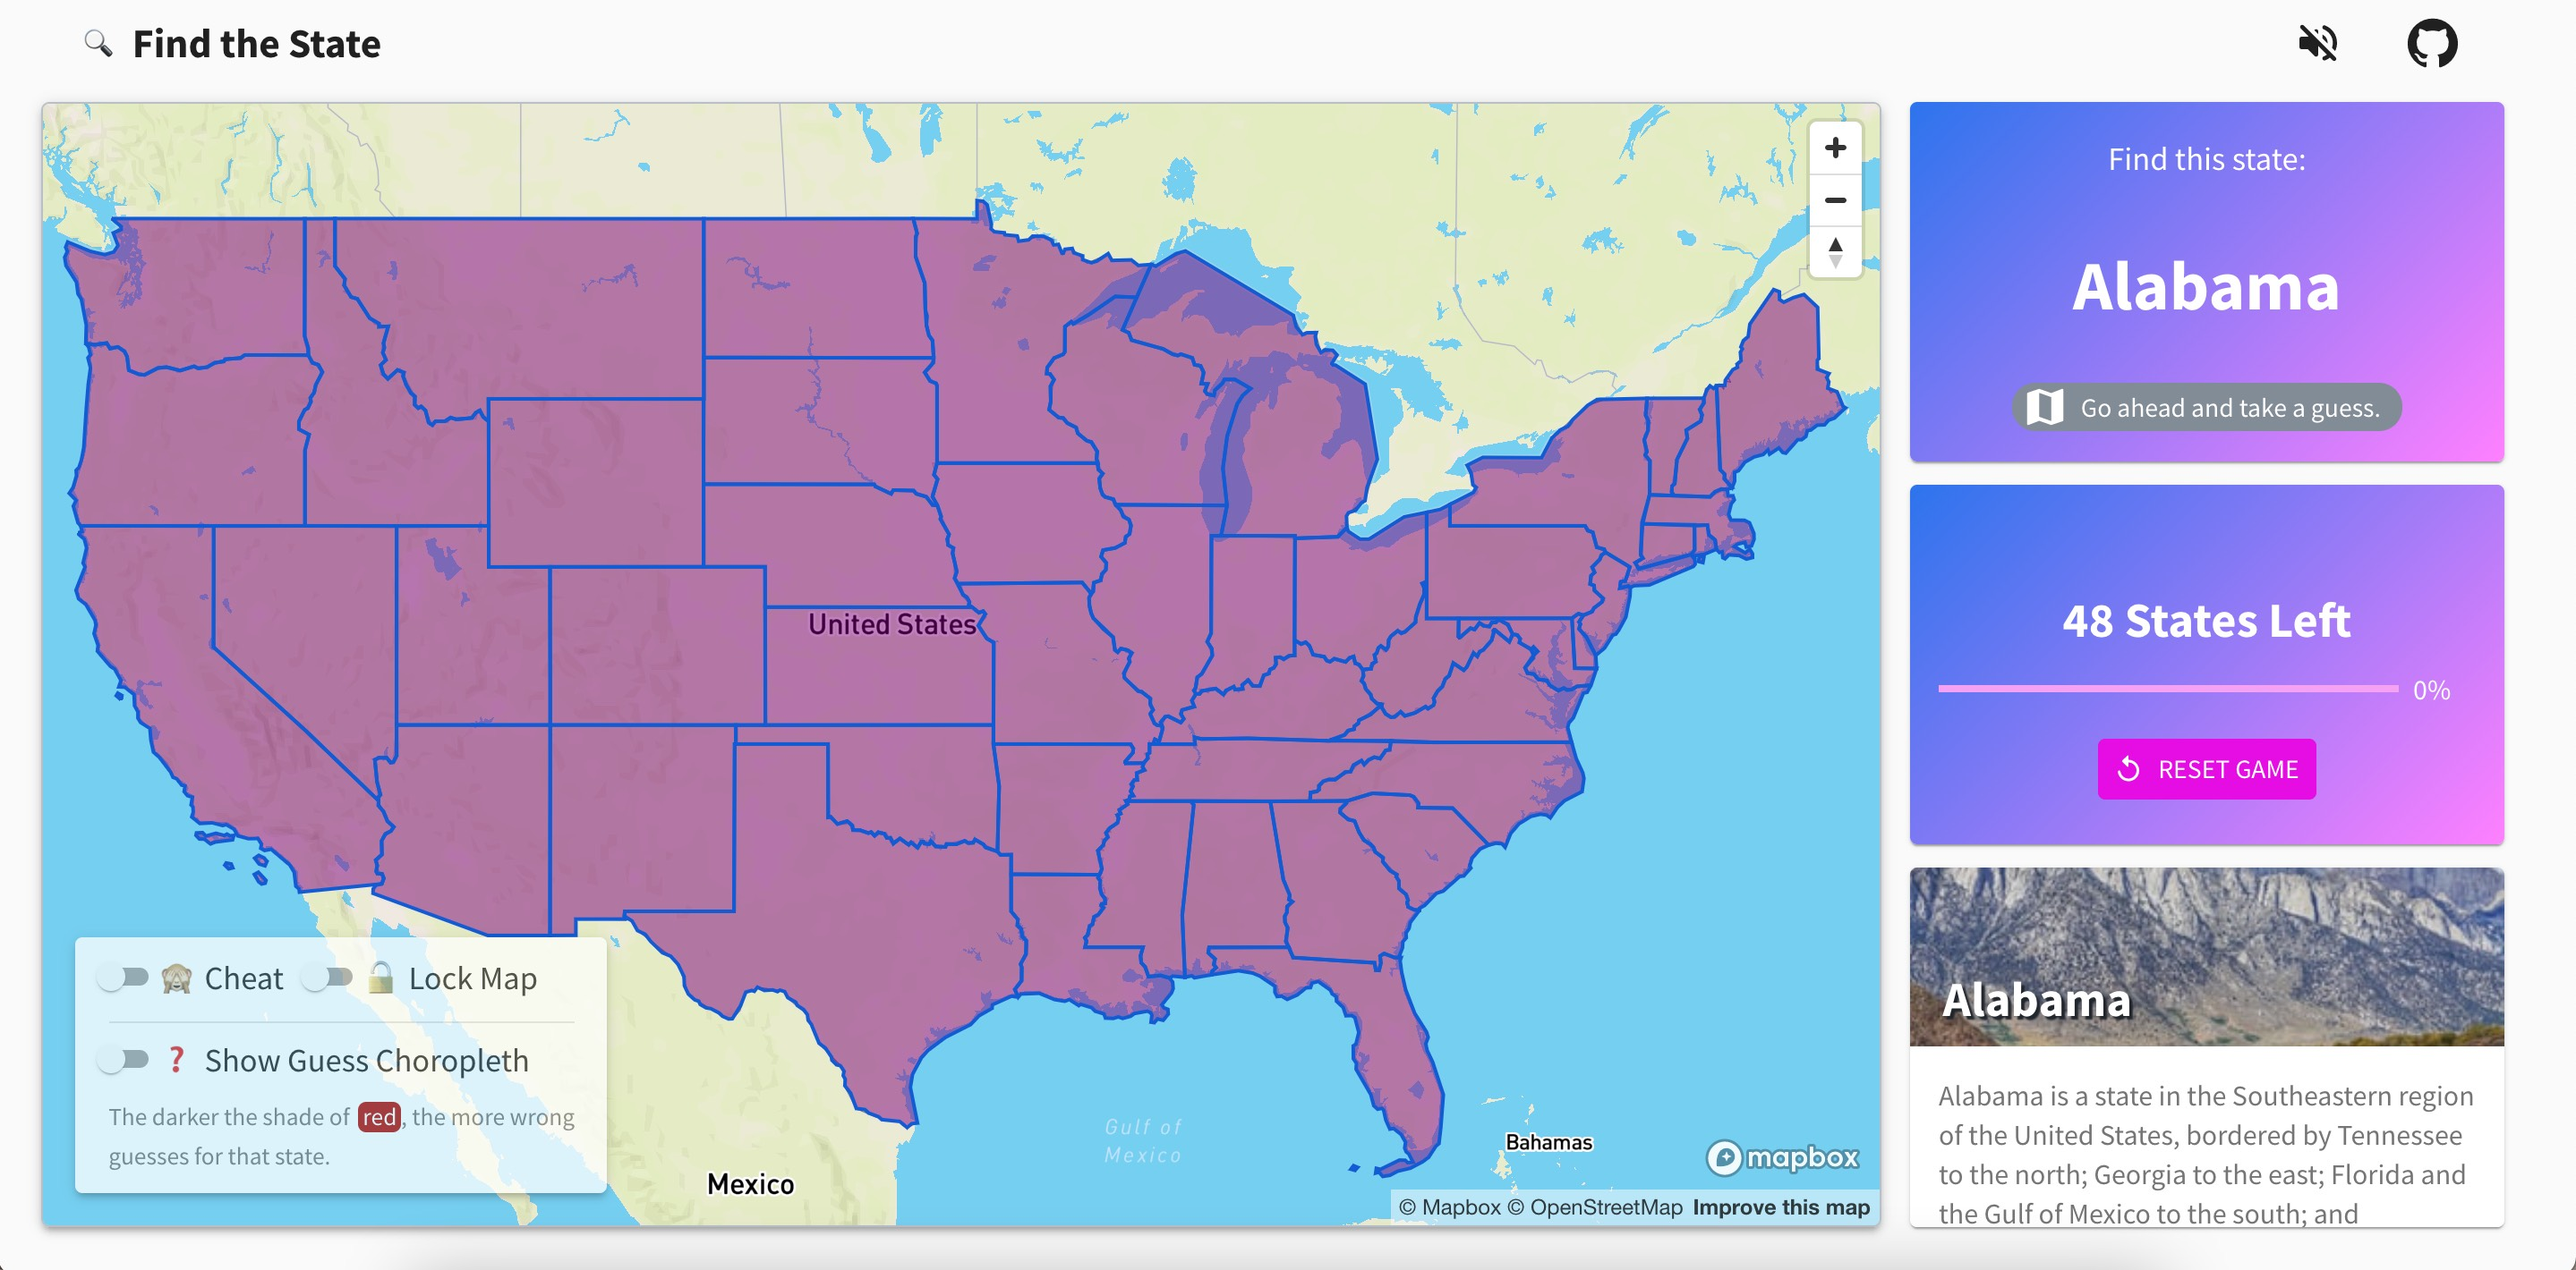
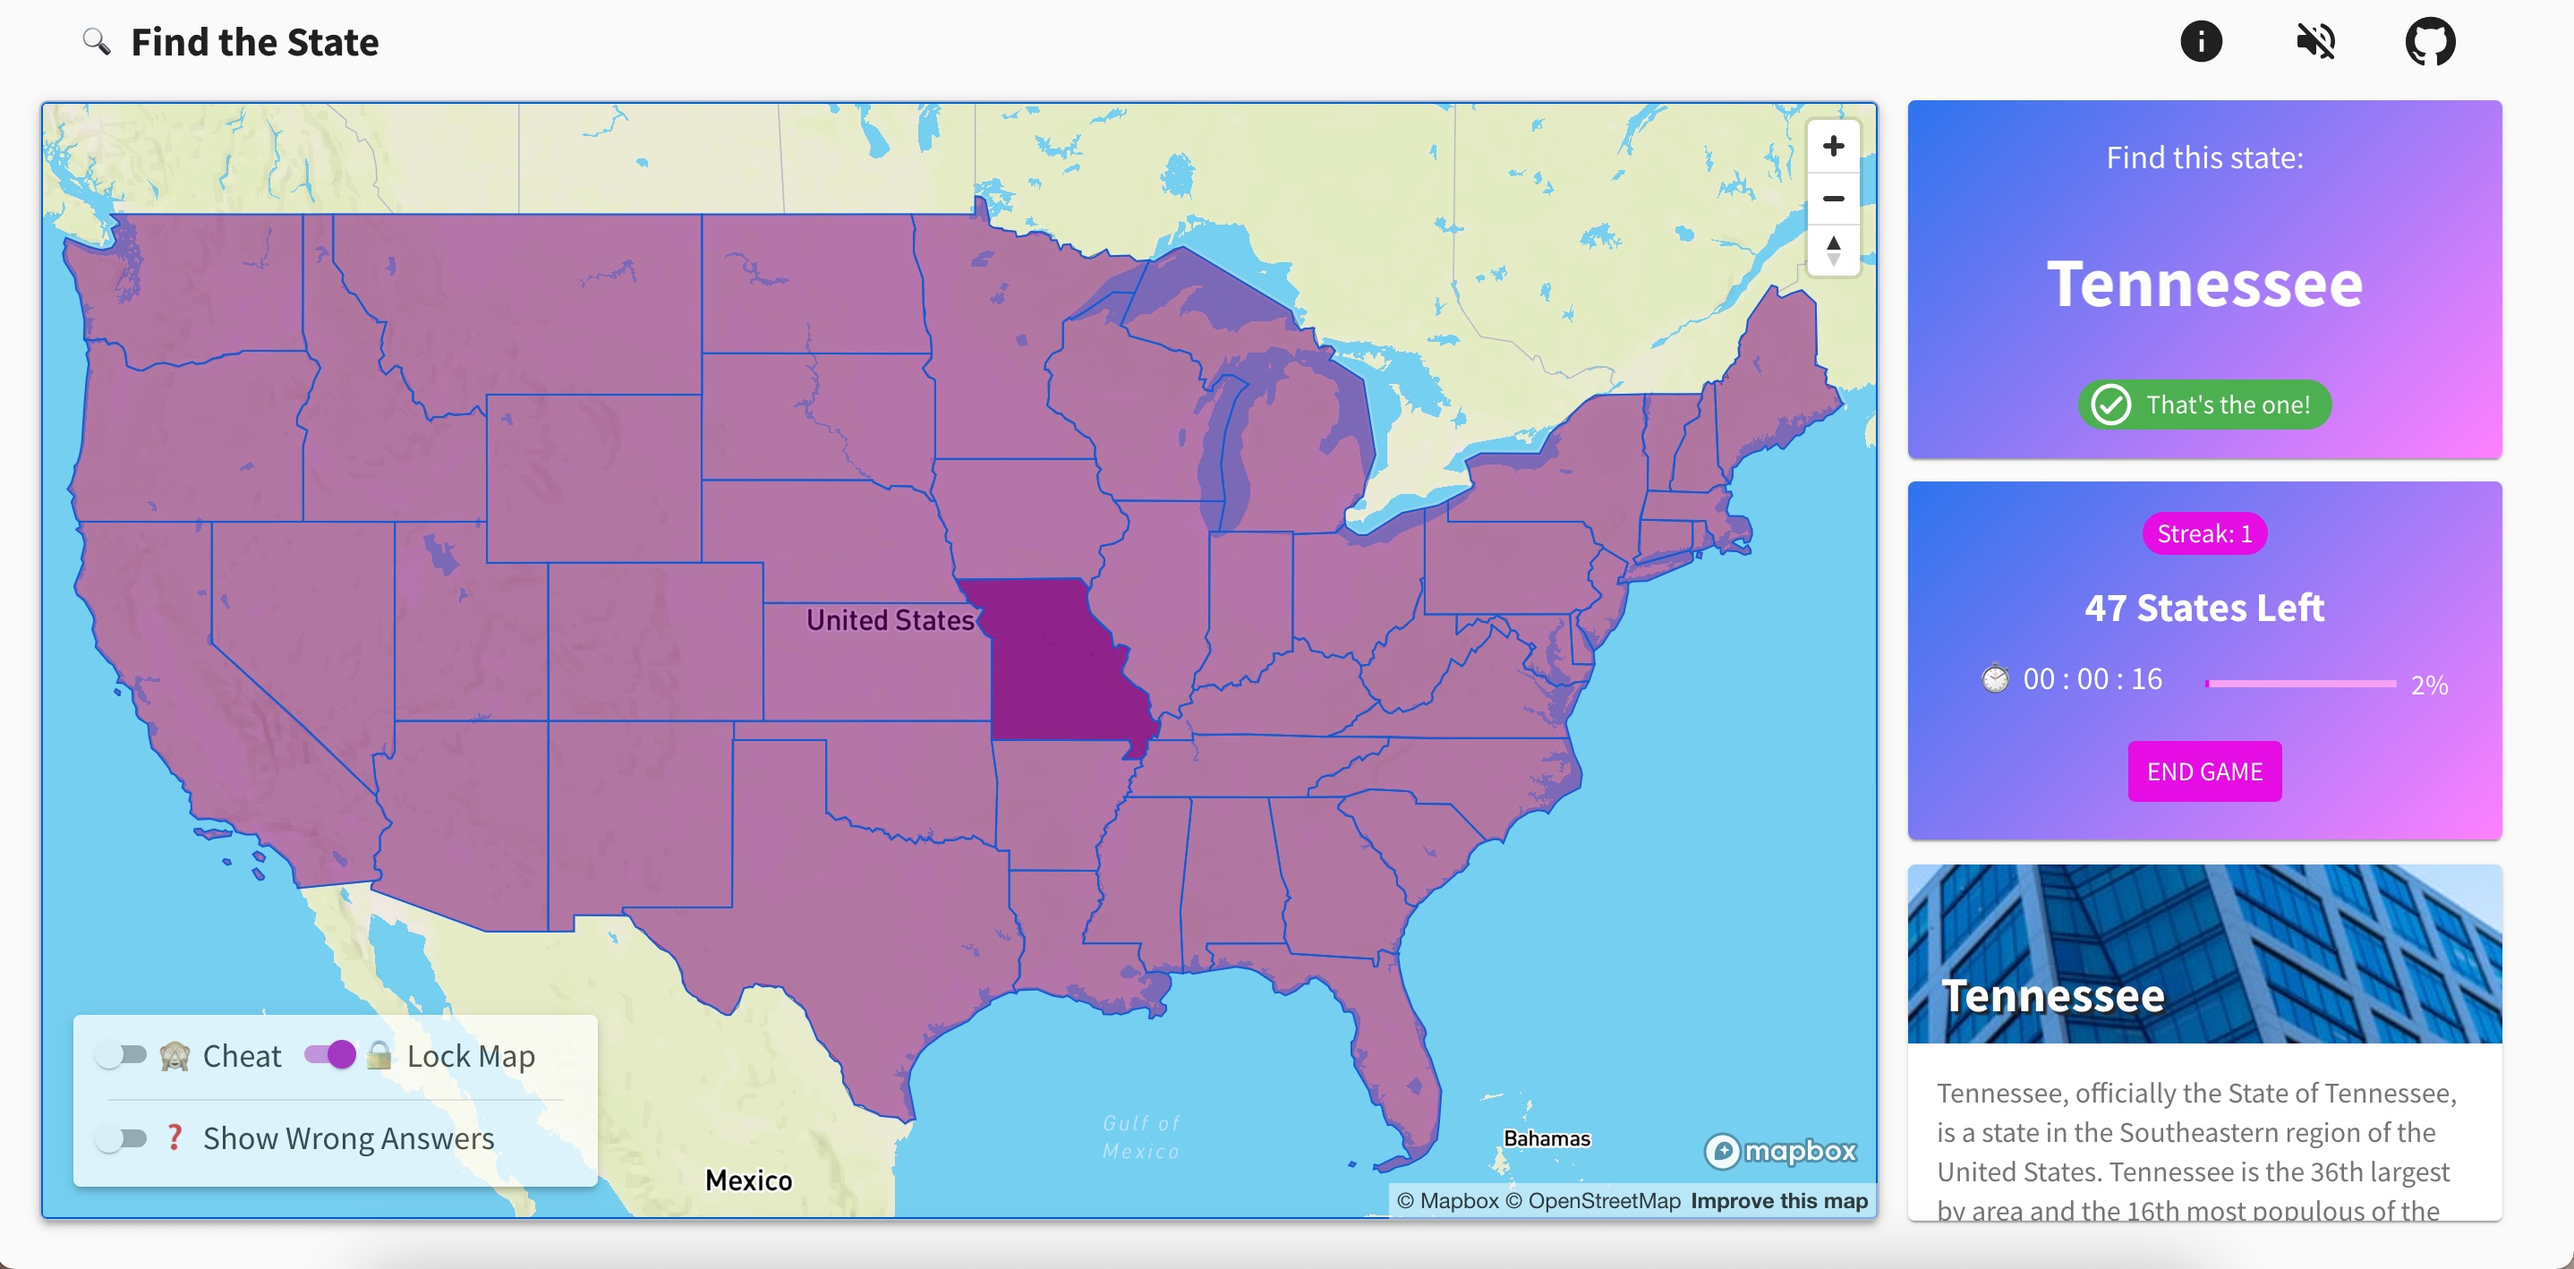
Update panel layout

diff --git a/src/components/program/cards/GameInformation/ActionButton.tsx b/src/components/program/cards/GameInformation/ActionButton.tsx
@@ -1,5 +1,5 @@
 import { Button } from '@material-ui/core';
-import { AddRounded, CloseRounded, ReplayRounded } from '@material-ui/icons';
+import { ReplayRounded } from '@material-ui/icons';
 import { endGameFunc, gameStatusState, startGameFunc } from '../../../../recoil/game/game';
 import { GameStatus } from '../../../../recoil/game/types';
 import { useRecoilValue, useSetRecoilState } from 'recoil';
@@ -12,25 +12,13 @@ export const ActionButton = () => {
   switch (gameStatus) {
     case GameStatus.UNPLAYED:
       return (
-        <Button
-          size="small"
-          color="primary"
-          variant="contained"
-          startIcon={<AddRounded />}
-          onClick={() => startGame(undefined)}
-        >
+        <Button size="small" color="primary" variant="contained" onClick={() => startGame(undefined)}>
           Start Game
         </Button>
       );
     case GameStatus.ACTIVE:
       return (
-        <Button
-          size="small"
-          color="primary"
-          variant="contained"
-          startIcon={<CloseRounded />}
-          onClick={() => endGame(undefined)}
-        >
+        <Button size="small" color="primary" variant="contained" onClick={() => endGame(undefined)}>
           End Game
         </Button>
       );

diff --git a/src/components/common/Map/Map.tsx b/src/components/common/Map/Map.tsx
@@ -25,7 +25,7 @@ interface MapProps {
 export const Map = ({ onLoad, onClick, resetBoundsOnThisValueChange }: MapProps) => {
   const [mapboxMap, setMapboxMap] = useState<MapboxMap>();
   const mapContainer = useRef<HTMLDivElement>(null);
-  const [lockMap, setLockMap] = useState(false);
+  const [lockMap, setLockMap] = useState(true);
   const [showGuessChoropleth, setShowGuessChoropleth] = useState(false);
   const [showLabels, setShowLabels] = useState(false);
 
@@ -149,6 +149,9 @@ export const Map = ({ onLoad, onClick, resetBoundsOnThisValueChange }: MapProps)
     fitBounds(map, USA_BOUNDS, DEFAULT_BOUNDS_PADDING);
 
     setMapboxMap(map);
+
+    // Because we want to start off with the map scrolling locked
+    setMapInteractionsStatus(map, false);
 
     return () => map.remove();
 

diff --git a/src/components/program/cards/GameInformation/GameInformation.tsx b/src/components/program/cards/GameInformation/GameInformation.tsx
@@ -12,6 +12,7 @@ import { Streak } from './Streak';
 import { TOTAL_ITEM_COUNT } from '../../../../constants/game';
 import { useRecoilValue } from 'recoil';
 import Confetti from 'react-dom-confetti';
+import { GameUnplayedCardContent } from './GameUnplayedCardContent';
 
 export const GameInformation = () => {
   const availableItemsCount = useRecoilValue(availableItemsCountState);
@@ -19,11 +20,7 @@ export const GameInformation = () => {
   const currentPercentage = ((TOTAL_ITEM_COUNT - availableItemsCount) / TOTAL_ITEM_COUNT) * 100;
 
   if (gameStatus === GameStatus.UNPLAYED) {
-    return (
-      <CardWithBackground background={bluePurpleGradient}>
-        <ActionButton />
-      </CardWithBackground>
-    );
+    return <GameUnplayedCardContent />;
   }
 
   return (

diff --git a/src/components/program/cards/GameInformation/GameUnplayedCardContent.tsx b/src/components/program/cards/GameInformation/GameUnplayedCardContent.tsx
@@ -1,0 +1,16 @@
+import { ActionButton } from './ActionButton';
+import { bluePurpleGradient } from '../../../../style/program/colors';
+import { CardWithBackground } from '../../../mui/CardWithBackground';
+import { Emoji } from '../../../common/Emoji';
+import { Box, Typography } from '@material-ui/core';
+
+export const GameUnplayedCardContent = () => (
+  <CardWithBackground background={bluePurpleGradient}>
+    <Box display="flex" flexDirection="column" alignItems="center" justifyContent="space-around">
+      <Typography variant="h1" component="h3" gutterBottom>
+        <Emoji symbol="🗺" label="Map" />
+      </Typography>
+      <ActionButton />
+    </Box>
+  </CardWithBackground>
+);
